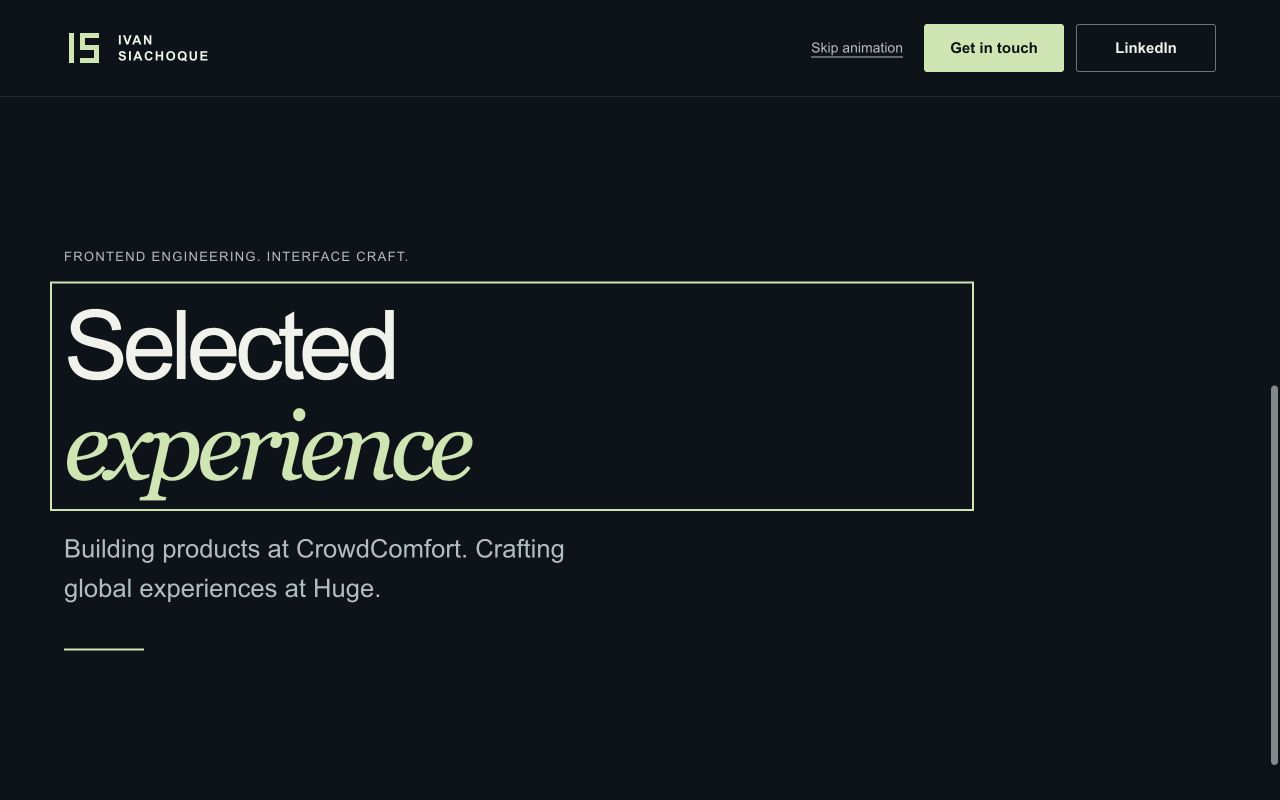
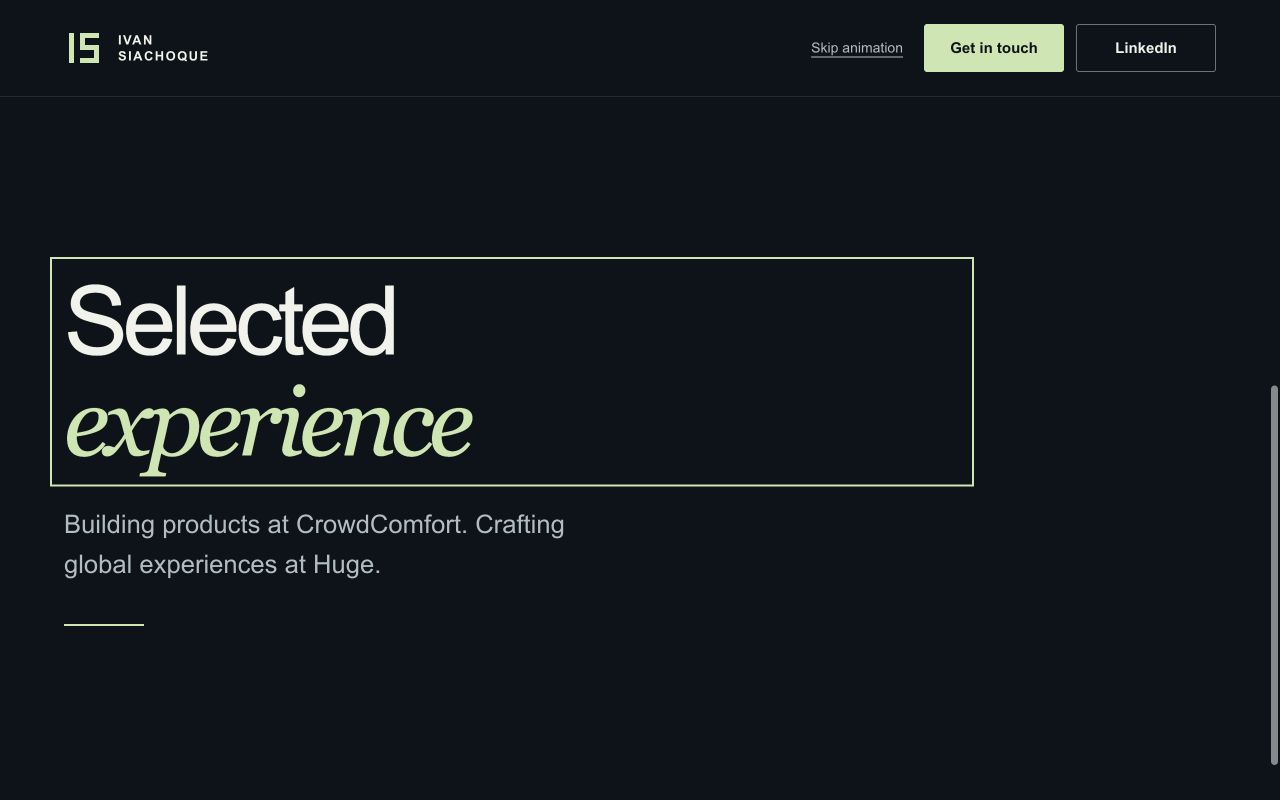
docs: record transition review and final browser evidence

Changed region(s): [[0.0312, 0.3125, 0.75, 0.75], [0.0625, 0.7812, 0.0938, 0.8125]]

diff --git a/.scratch/opening-transition/review.md b/.scratch/opening-transition/review.md
@@ -1,0 +1,59 @@
+# Opening transition code review
+
+## Scope
+
+- Base: `bd6b7dc78308608a45064f26d1848630d31853f8`.
+- Initial implementation: `dc287c9`; final runtime correction: `19d00c8`.
+- Diff: `git diff bd6b7dc78308608a45064f26d1848630d31853f8...19d00c8`.
+- Specification: [Cinematic Opening Transition](spec.md).
+- Validation: [browser checks and limitations](validation.md).
+- Independent read-only Standards and Spec agents reviewed the initial change
+  in parallel and checked the final correction afterward.
+
+## Standards
+
+No actionable findings in the final range.
+
+The implementation follows the documented English-language requirement, glossary,
+feature scope, branch convention, and local tracker workflow. The hook owns one
+feature's DOM access, eligibility, timeline, focus handling, and teardown without
+introducing a general scene engine or speculative interfaces. Shared artwork
+framing and contact styles avoid meaningful duplication.
+
+The follow-up retains the lifecycle owner and centralizes contact scroll offsets
+in the shared style. Removing additional copy introduces no new abstraction.
+
+**Standards: 0 findings; no unresolved standards issue.**
+
+## Spec
+
+### Original finding: P2 — Focused contact visibility in normal flow
+
+The spec requires keeping focus visible and adapting to viewport changes without
+hidden controls. The original helper excluded all header descendants, preventing
+correction if a focused contact moved offscreen when a short viewport changed
+the header from sticky to normal flow.
+
+This was a source-level finding. In the targeted in-app browser check, native
+resize handling already kept the focused contact at y24–72; an offscreen contact
+was not reproduced in that environment.
+
+### Resolution
+
+Commit `19d00c8` excludes header descendants only while the header is sticky.
+Normal-flow contacts receive the ordinary bounds correction, and their shared
+scroll margin provides focus clearance. The focused contact remained at y24–72
+in the final 844-by-200 browser check.
+
+The correction also removes the extra scroll cue and duplicated bridge tagline
+and restores the original footer wording. The reviewer verified the correction
+and reported no new mismatch. Other layered motion, skip/focus, reversal, fallback,
+and lifecycle requirements matched the specification and recorded evidence.
+
+**Spec: 1 original P2 finding resolved; 0 unresolved findings.**
+
+## Completion
+
+Standards: 0 findings. Spec: 1 P2 finding resolved. Neither axis has unresolved
+issues. Later documentation commits record evidence and PR publication without
+changing the reviewed runtime implementation.

diff --git a/.scratch/opening-transition/notes.md b/.scratch/opening-transition/notes.md
@@ -2,9 +2,8 @@
 
 ## Current stage
 
-`grill-with-docs` is complete. The owner approved the visual sequence and
-browser-level verification boundary. The specification is published; the ticket
-breakdown awaits approval before implementation.
+Design, specification, ticket approval, implementation, browser validation, and
+two-axis review are complete. The remaining ticket step is GitHub PR publication.
 
 ## Agreed decisions
 
@@ -32,7 +31,7 @@ The current illustration combines the city and conceptual figure in one image.
 The owner requested separate, superimposable assets. Prepare a clean city plate
 with the occluded environment reconstructed and a transparent figure layer,
 preserving the original framing and keeping the existing published asset intact.
-The outputs remain design artifacts until the motion feature is approved.
+The approved study is retained as source/provenance for the production plates.
 
 The two assets have now been generated and inspected. They share a 1672 by 941
 canvas; the figure has genuine transparency. A browser composition verified
@@ -42,5 +41,5 @@ were changed during this artwork study.
 
 ## Design frontier
 
-No unresolved design questions remain for specification synthesis. The next
-approval is the ticket breakdown required by `to-tickets`.
+No unresolved design questions remain. The approved ticket is implemented; see
+the validation and review records.

diff --git a/.scratch/opening-transition/implementation.md b/.scratch/opening-transition/implementation.md
@@ -27,4 +27,11 @@ contact links outside fading content. No generic scene engine is introduced.
 The [validation record](validation.md) contains browser observations, build
 results, resolved implementation findings, and explicit environment limitations.
 The rendered initial, intermediate, final, reverse, skip, and fallback states
-have been checked. The implementation is ready for its two-axis review.
+have been checked. Implementation commit: `dc287c9`. Reviewed follow-up: `19d00c8`.
+
+## Review
+
+The [two-axis review](review.md) is complete. Standards reported zero findings.
+Spec identified one P2 source-level focus issue, which was corrected and reviewed
+again; zero unresolved findings remain. PR publication is the remaining ticket
+step. No subsequent feature is in progress.

diff --git a/.scratch/opening-transition/issues/01-build-cinematic-opening-transition.md b/.scratch/opening-transition/issues/01-build-cinematic-opening-transition.md
@@ -24,7 +24,7 @@ was delivered and merged through PR #1.
 - [x] Preference and viewport changes clean up or rebuild the enhancement without duplicate spacers, hidden controls, or focus loss.
 - [x] Keyboard, text reflow, contrast, image failure, and responsive reachability meet the specification.
 - [x] TypeScript and production build pass; rendered start, middle, end, reverse, skip, and fallback behaviors are verified and documented.
-- [ ] Standards and Spec reviews are completed against the recorded base; actionable findings are resolved.
+- [x] Standards and Spec reviews are completed against the recorded base; actionable findings are resolved.
 - [ ] The ticket branch is pushed and a PR is opened against main, with its URL recorded locally.
 
 ## Comments

diff --git a/.scratch/opening-transition/validation.md b/.scratch/opening-transition/validation.md
@@ -96,7 +96,8 @@ focused contact visible in the targeted 844-by-200 check, the exclusion would
 prevent correction in a browser that retained an offscreen scroll position.
 Restrict the exclusion to sticky headers; normal-flow contacts now receive the
 same bounds correction as other focused content, with a scroll margin for the
-focus outline. Recheck the short-viewport contact case after the change.
+focus outline. The final short-viewport check retained the focused link at
+y24–72 in a 200px viewport. See [focus evidence](evidence/contact-flow-focus.json).
 
 The final UI also removes an additional scroll hint and restores the original
 footer wording, retaining only the three approved additions to visible copy.
